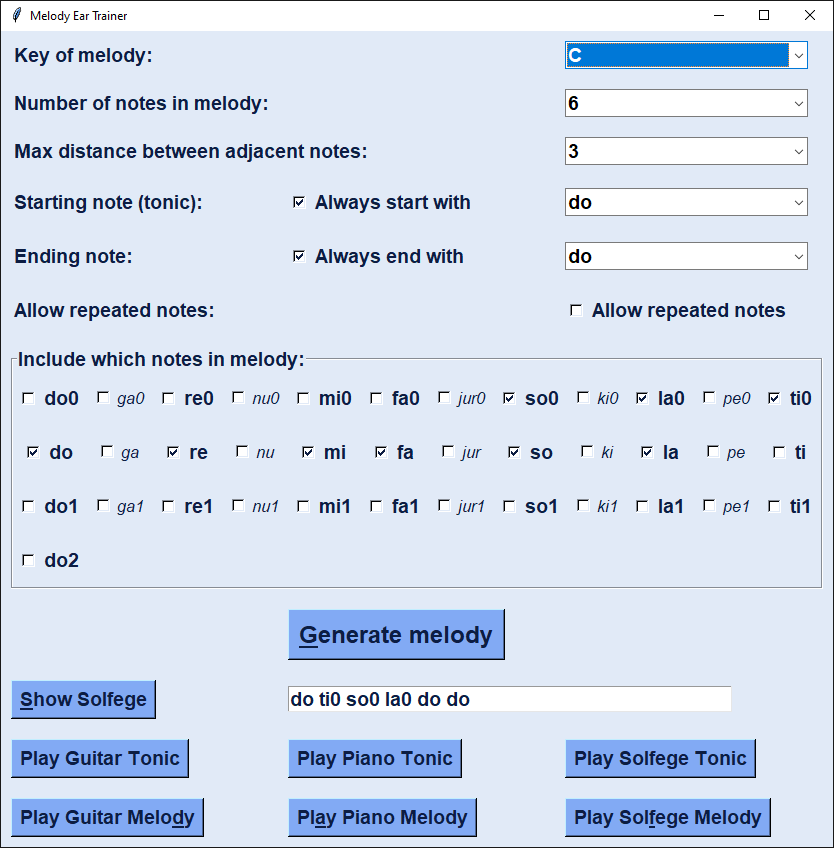
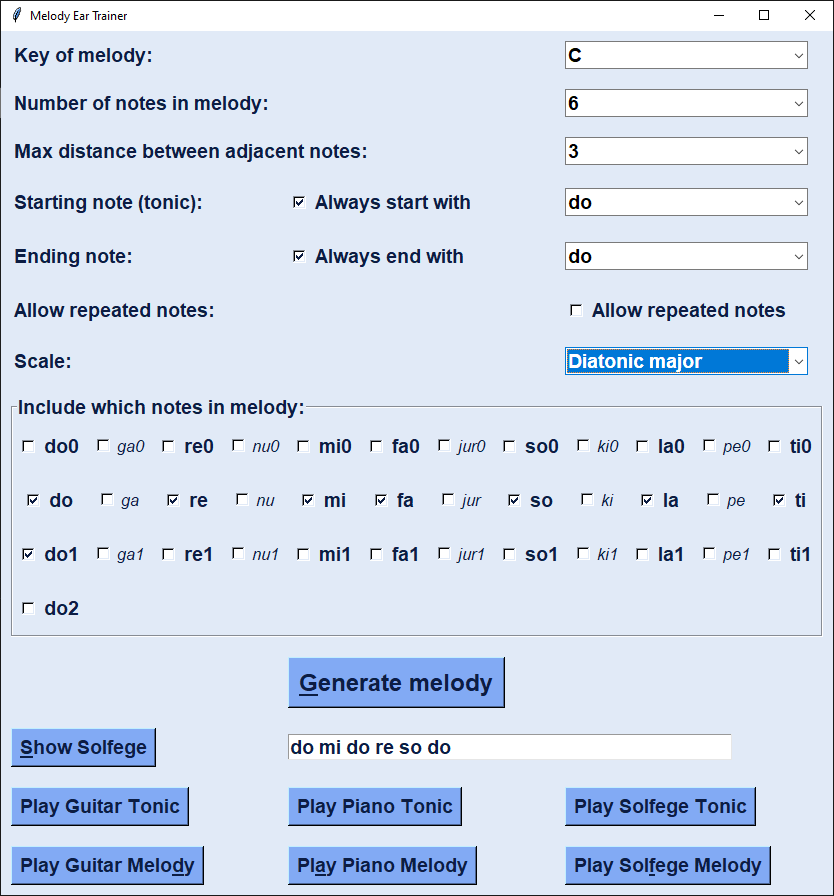
updated readme

diff --git a/README.md b/README.md
@@ -1,9 +1,9 @@
-This is a small python application that generates short melodies for ear training using movable-do solfege and sotorrio for the accidentals. Both la-based and do-based minor keys are supported in practice. 
+This is a small python application that generates short melodies for ear training using movable-do solfege and Sotorrio for the chromatic notes. Both la-based and do-based minor keys are supported in practice. 
 The program can be used for ear training in 2 ways: "Listening test" and "Singing test".
 
 *Listening test:* 
 
-1. Make your key, note, and length of melody selections
+1. Make your key, scale, and length of melody selections
 2. Click "Generate melody"
 3. Click the 3 "Play ___ Tonic" buttons to orient yourself to the tonic note
 4. Click "Play Guitar Melody" and/or "Play Piano Melody"
@@ -13,7 +13,7 @@ The program can be used for ear training in 2 ways: "Listening test" and "Singin
 
 *Singing test:*
 
-1. Make your key, note, and length of melody selections
+1. Make your key, scale, and length of melody selections
 2. Click "Generate melody"
 3. Click "Show Solfege" to display the written solfege of the generated melody
 4. Click the 3 "Play ___ Tonic" buttons to orient yourself to the tonic note
@@ -21,7 +21,7 @@ The program can be used for ear training in 2 ways: "Listening test" and "Singin
 6. Then click the 3 "Play ___ Melody" buttons to listen and check whether you sang the melody correctly. 
 7. Play back the melody on your instrument (optional)
 
-The program supports all 12 keys with 3 octaves of each key.
+The program supports all 12 keys with 3 octaves of each key. Scale selection presets include Diatonic Major, Natural Minor, Pentatonic (both major and minor), and Blues (both major and minor); you can also select any notes you want outside of the presets.
 
 To download and install the program on Windows, go to the "dist" folder above, then download "melody_ear_trainer.zip", unzip, and run. This program is free and open source.
 
